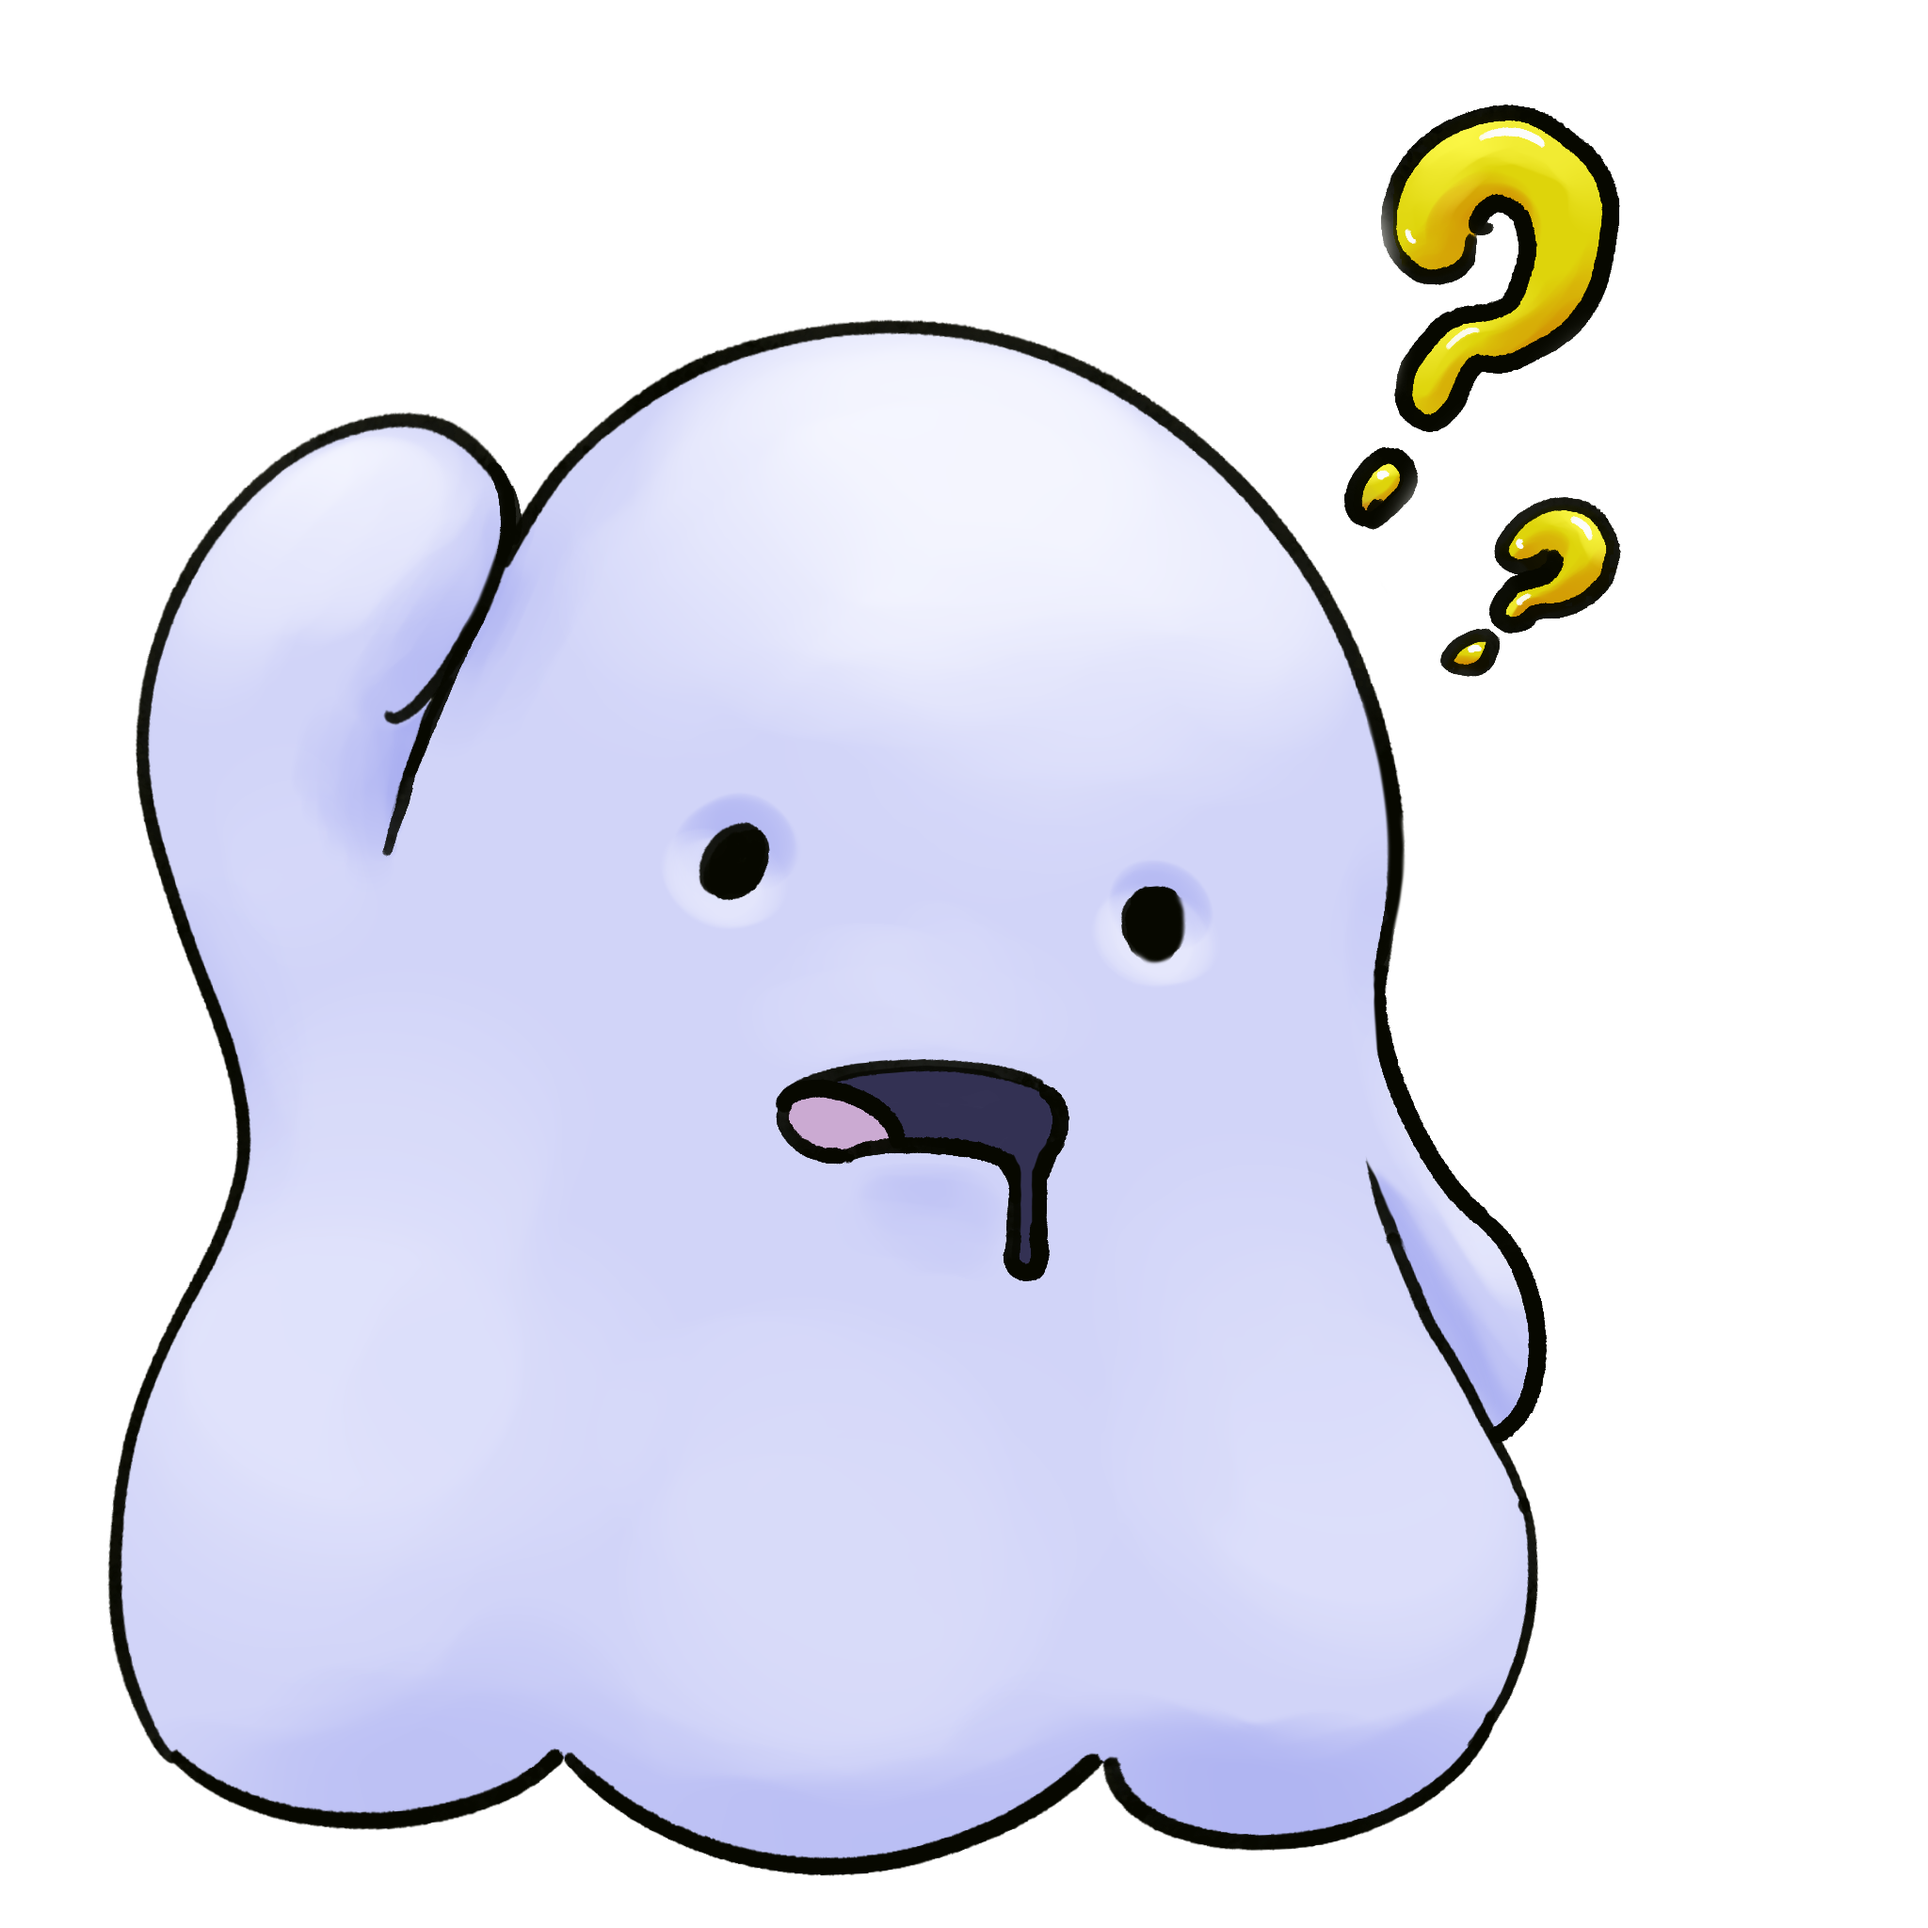
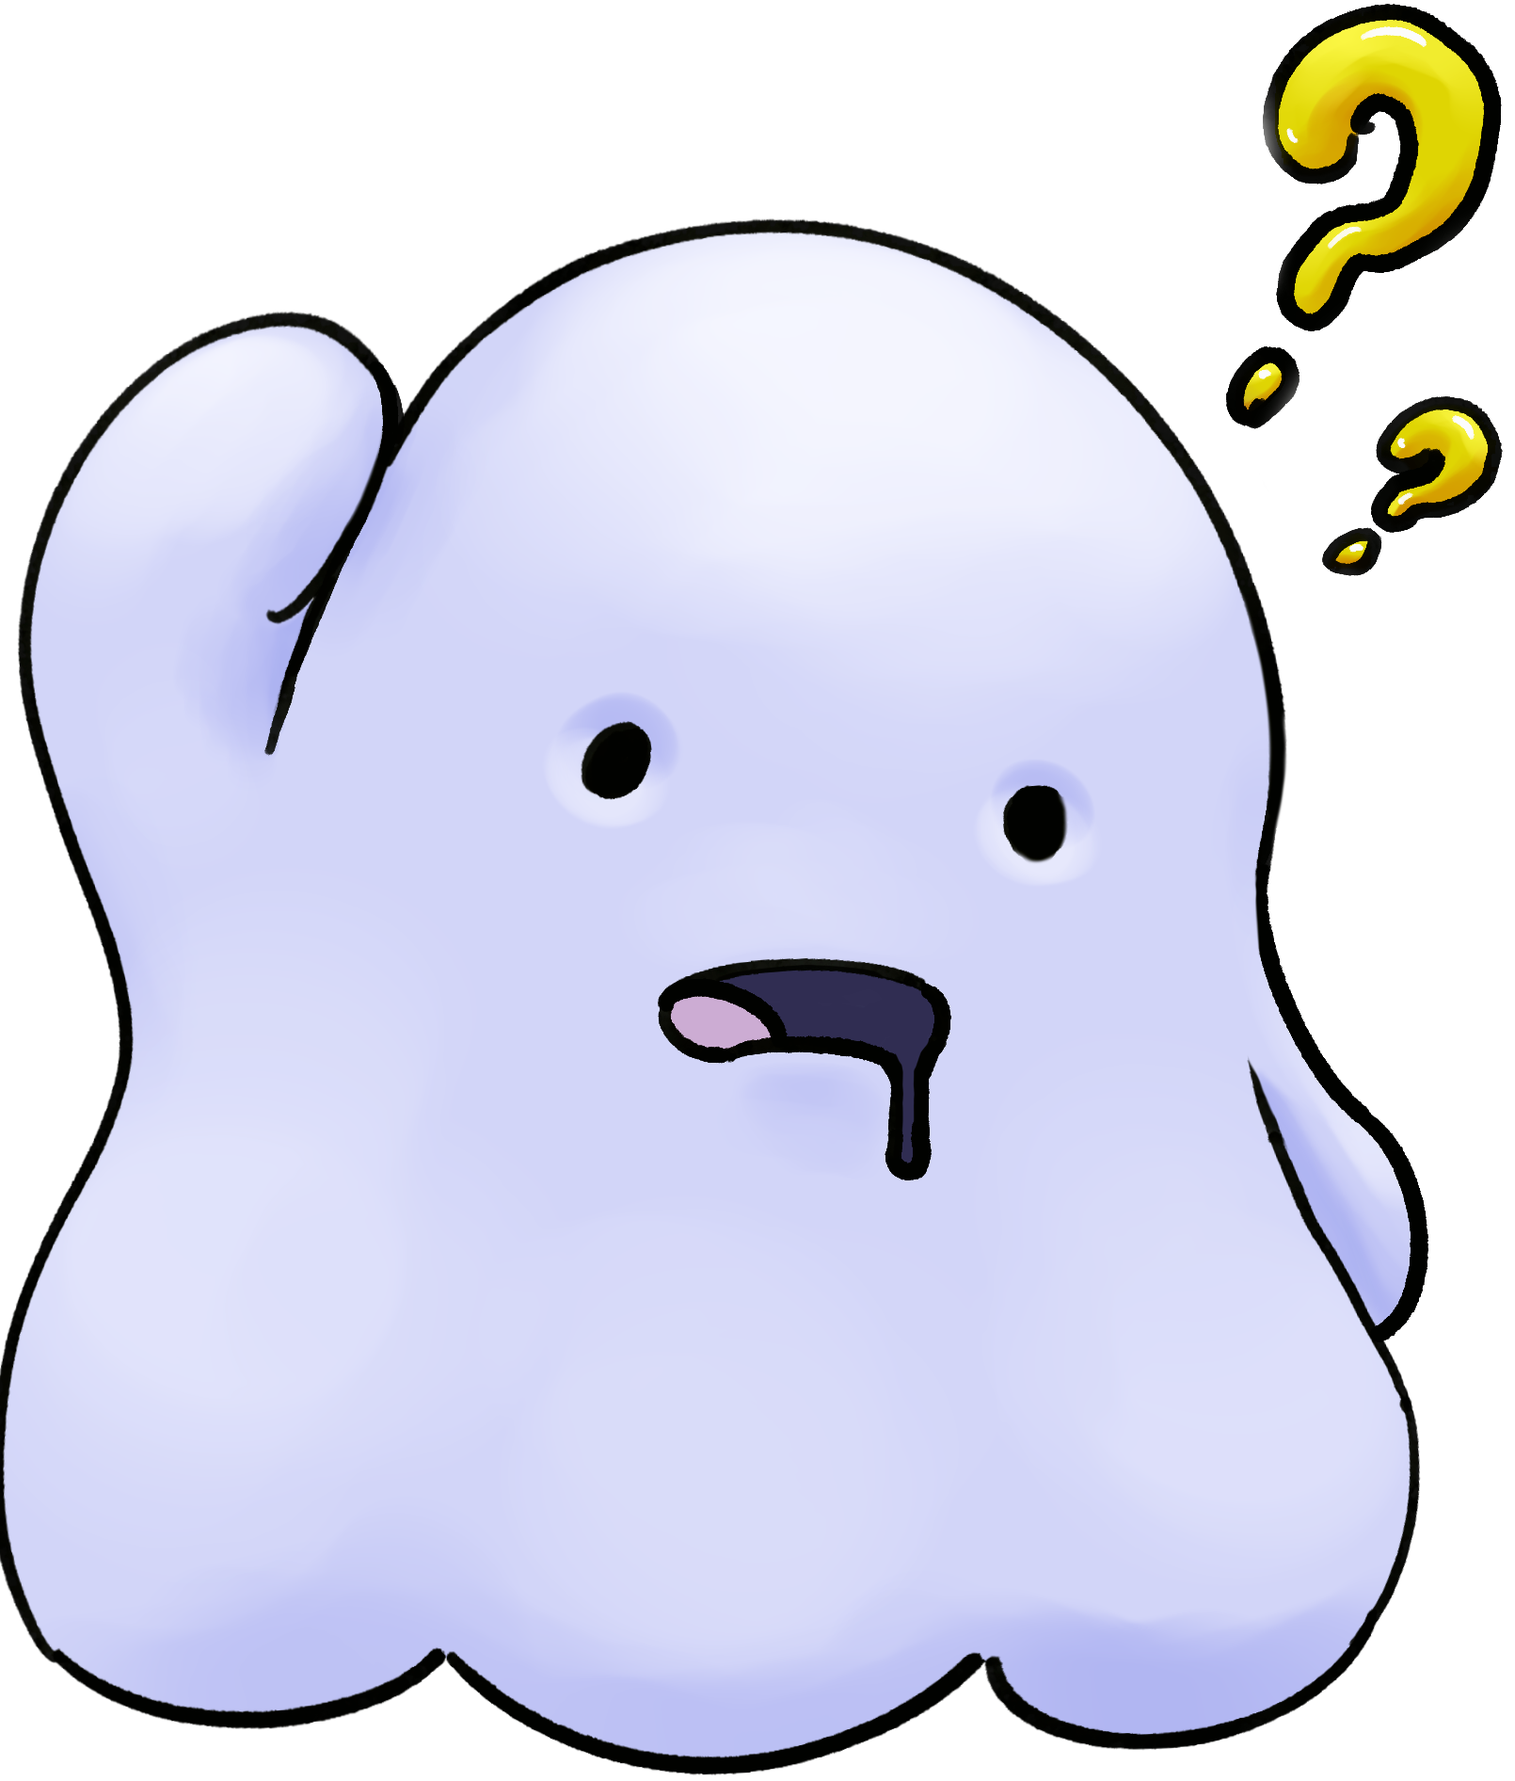
chore: crop white space

diff --git a/src/pages/404.tsx b/src/pages/404.tsx
@@ -36,7 +36,7 @@ export default function NotFound({ docsNavTree }: NotFoundProps) {
         <Image
           src="/ghostty-404.png"
           alt="Ghostty 404 image - Credit @qwerasd205"
-          width={500}
+          width={425}
           height={500}
         />
       </main>
